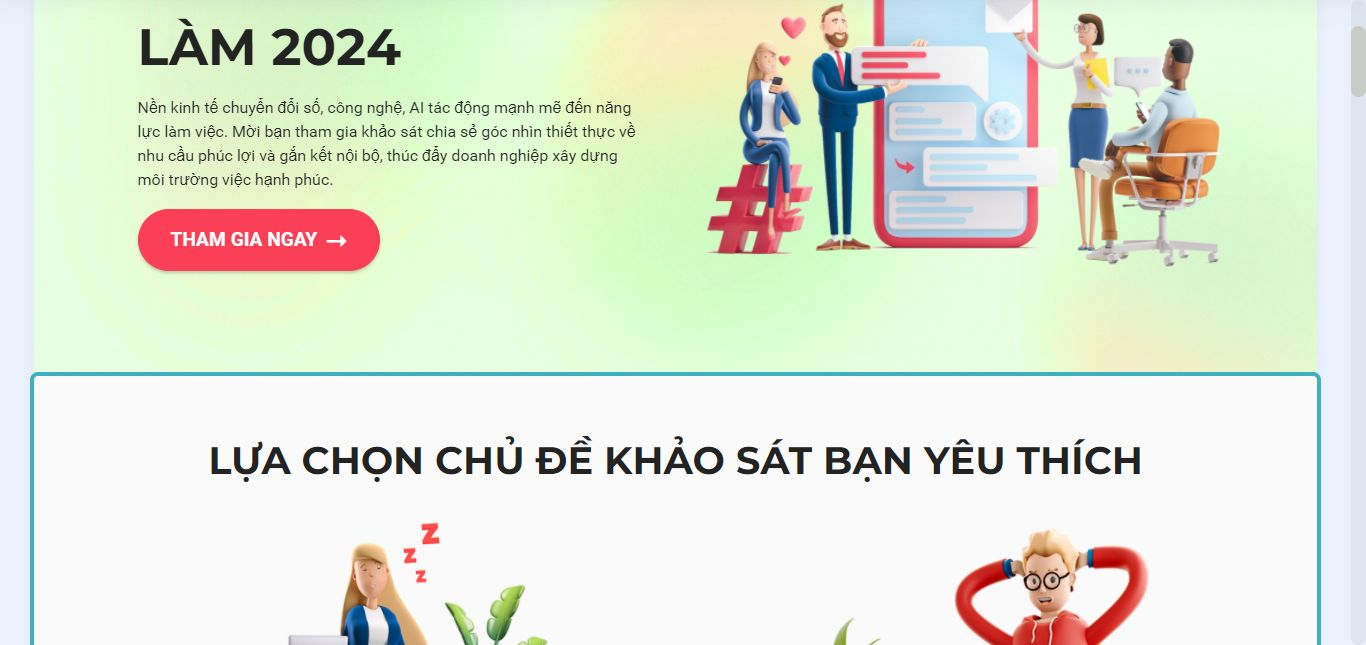
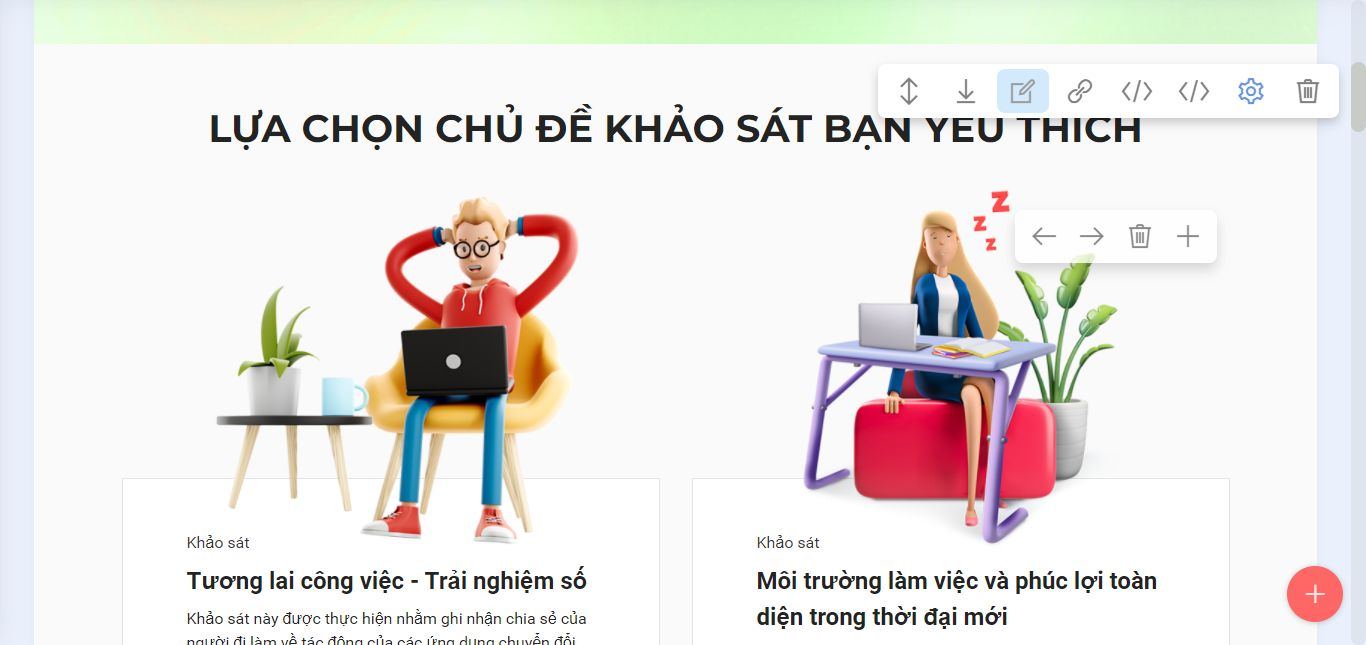
up

diff --git a/index.html b/index.html
@@ -123,7 +123,7 @@ height="0" width="0" style="display:none;visibility:hidden"></iframe></noscript>
                     <h1 class="mbr-section-title mbr-fonts-style mb-3 display-1"><strong>KHẢO SÁT XU HƯỚNG NGƯỜI ĐI LÀM 2024</strong></h1>
 <h1 class="mbr-section-title mbr-fonts-style mb-3 display-7">Nền kinh tế chuyển đổi số, công nghệ, AI tác động mạnh mẽ đến năng lực làm việc. Mời bạn tham gia khảo sát chia sẻ góc nhìn thiết thực về nhu cầu phúc lợi và gắn kết nội bộ, thúc đẩy doanh nghiệp xây dựng môi trường việc hạnh phúc.</h1>   
 
-                    <div class="navbar-buttons mbr-section-btn"><a class="btn btn-secondary display-4" href="index.html#survey-opt">THAM GIA NGAY<span style="font-size: 1.4rem; color: #fff; font-weight: bolder;">&nbsp;➝</span></a></div>
+                    <div class="navbar-buttons mbr-section-btn"><a class="btn btn-secondary display-4" href="https://insights-w1.anphabe.com/">THAM GIA NGAY<span style="font-size: 1.4rem; color: #fff; font-weight: bolder;">&nbsp;➝</span></a></div>
                     
                 </div>
             </div>
@@ -134,7 +134,9 @@ height="0" width="0" style="display:none;visibility:hidden"></iframe></noscript>
     </div>
 </section>
 
-<section data-bs-version="5.1" class="features11 cid-ugcJF7U7MR" id="survey-opt">
+
+
+<section data-bs-version="5.1" class="features11 cid-uhrCWZCP8v" id="features11-6o">
     <!---->
     
 
@@ -142,45 +144,26 @@ height="0" width="0" style="display:none;visibility:hidden"></iframe></noscript>
     
     <div class="container">
         <div class="title">
-            <h3 class="mbr-section-title mbr-fonts-style mb-4 display-2"><strong>LỰA CHỌN CHỦ ĐỀ KHẢO SÁT BẠN YÊU THÍCH</strong></h3>
+            <h3 class="mbr-section-title mbr-fonts-style mb-4 display-2"><strong>NỘI DUNG CHỦ ĐỀ KHẢO SÁT</strong></h3>
             
         </div>
-        <div class="row">
-            
-            <div class="item col-12 col-lg-6 features-image active">
+        <div class="row d-flex justify-content-center">
+            <div class="item col-12 col-lg-8 features-image">
                 <div class="item-wrapper">
                     <div class="image-wrapper">
-                        <img src="assets/images/survey-2.png" alt="Khảo sát Tác động của công nghệ đến năng lực làm việc" title="" data-slide-to="0" data-bs-slide-to="0">
-                    </div>
-                    <div class="card-box">
-                        <h6 class="item-subtitle mbr-fonts-style mt-1 display-7">Khảo sát</h6>
-                        <h4 class="card-title mbr-fonts-style mb-2 display-5"><strong>Tương lai công việc - Trải nghiệm số</strong></h4> 
-                        <p class="mbr-text mbr-fonts-style m-0 display-7">
-                            Khảo sát này được thực hiện nhằm ghi nhận chia sẻ của người đi làm về tác động của các ứng dụng chuyển đổi số mà doanh nghiệp đang triển khai, lên chất lượng và hiệu quả công việc của nhân viên. Từ đó, giúp doanh nghiệp hiểu rõ hơn nhận định và nhu cầu của nhân viên về sự hỗ trợ từ các ứng dụng cộng nghệ số này, từ đó cải thiện quy trình số hóa, nâng cao trải nghiệm và hiệu quả làm việc của nhân viên tốt hơn.
-                        </p>
-                                                <div class="mbr-section-btn mt-4 mb-4"><a href="https://insights-w2.anphabe.com/" class="btn item-btn btn-secondary display-7" target="_blank">THAM GIA NGAY ➝</a></div>
-                    </div>
-                </div>
-            </div><div class="item col-12 col-lg-6 features-image">
-                <div class="item-wrapper">
-                    <div class="image-wrapper">
-                        <img src="assets/images/survey-1.png" alt="Khảo sát Nhu cầu về an sinh phúc lợi và gắn kết nội bộ" title="" data-slide-to="1" data-bs-slide-to="1">
+                        <img src="assets/images/survey-1.png" alt="" title="">
                     </div>
                     <div class="card-box">
                         <h6 class="item-subtitle mbr-fonts-style mt-1 display-7">Khảo sát</h6>
                         <h4 class="card-title mbr-fonts-style mb-2 display-5"><strong>Môi trường làm việc và phúc lợi toàn diện trong thời đại mới</strong></h4> 
-                        <p class="mbr-text mbr-fonts-style m-0 display-7">
-                        Người đi làm tham gia khảo sát nhằm đánh giá mức độ hài lòng của bản thân về môi trường làm việc và mức độ gắn kết đồng nghiệp, chia sẻ cảm nhận cá nhân về chương trình phúc lợi đang được thụ hưởng tại doanh nghiệp, từ đó giúp doanh nghiệp tại thị trường Việt Nam có thêm góc nhìn, kịp thời cải thiện môi trường làm việc và phát triển thêm chương trình hỗ trợ an sinh phúc lợi cho người lao động.
-                        </p>
+                        <p class="mbr-text mbr-fonts-style m-0 display-7">Người đi làm tham gia khảo sát nhằm đánh giá mức độ hài lòng của bản thân về môi trường làm việc và mức độ gắn kết đồng nghiệp, chia sẻ cảm nhận cá nhân về chương trình phúc lợi đang được thụ hưởng tại doanh nghiệp, từ đó giúp doanh nghiệp tại thị trường Việt Nam có thêm góc nhìn, kịp thời cải thiện môi trường làm việc và phát triển thêm chương trình hỗ trợ an sinh phúc lợi cho người lao động.<br></p>
                         <div class="mbr-section-btn mt-4 mb-4"><a href="https://insights-w1.anphabe.com/" class="btn item-btn btn-secondary display-7" target="_blank">THAM GIA NGAY ➝</a></div>
                     </div>
                 </div>
-            </div>
+            </div>       
         </div>
     </div>
 </section>
-
-
 
 <section data-bs-version="5.1" class="gallery2 cid-ug8wzzwPxT" id="gallery2-6e">
     
@@ -291,7 +274,7 @@ height="0" width="0" style="display:none;visibility:hidden"></iframe></noscript>
                 </div>
             </div>            
         </div>
-        <div class="mbr-section-btn mt-4 align-center"><a class="btn btn-secondary display-7" href="index.html#survey-opt" target="_blank">THAM GIA NGAY&nbsp;➝</a></div>
+        <div class="mbr-section-btn mt-4 align-center"><a class="btn btn-secondary display-7" href="https://insights-w1.anphabe.com/">THAM GIA NGAY&nbsp;➝</a></div>
 
     </div>
 </section>

diff --git a/assets/theme/js/script.js b/assets/theme/js/script.js
@@ -60,4 +60,4 @@ d)});v&&g(a).carousel({keyboard:!1})});a.addEventListener("slid.bs.carousel",fun
 (a=g(a.target).find(".form-with-styler"),g(a).find('select:not("[multiple]")').each(function(){g(this).styler&&g(this).styler()}),g(a).find("input[type=number]").each(function(){g(this).styler&&(g(this).styler(),g(this).parent().parent().removeClass("form-control"))}),g(a).find("input[type=date]").each(function(){g(this).datetimepicker&&g(this).datetimepicker({format:"Y-m-d",timepicker:!1})}),g(a).find("input[type=time]").each(function(){g(this).datetimepicker&&g(this).datetimepicker({format:"H:i",
 datepicker:!1})}))})}document.querySelectorAll('input[type="range"]').forEach(function(a){a.addEventListener("change",function(a){a.target.parents(".form-group").forEach(function(b){b.querySelector(".value").innerHTML=a.target.value})})});if(m)g(document).on("add.cards changeParameter.cards",function(a,b){"undefined"!==typeof CircularProgressBar&&new CircularProgressBar("pie_progress");b?G(a.target,b):a.target.querySelectorAll(".pie_progress").length&&a.target.querySelectorAll(".pie_progress").forEach(function(a){D(a)})});
 else document.querySelectorAll(".pie_progress").length&&("undefined"!==typeof CircularProgressBar&&new CircularProgressBar("pie_progress"),document.querySelectorAll(".pie_progress").forEach(function(a){D(a)}));if(m&&v)g(document).on("add.cards",function(a){g(a.target).hasClass("testimonials-slider")&&y(a.target)}).on("changeParameter.cards",function(a,b,e){"testimonialsSlides"===b&&0==g(a.target).find(".carousel-item.active").length&&B(a.target)});else"undefined"===typeof window.initTestimonialsPlugin&&
-(window.initTestimonialsPlugin=!0,document.querySelectorAll(".testimonials-slider").forEach(function(a){y(a)}));k(function(){m||Array.from(document.body.children).filter(function(a){return!a.matches("style, script")}).forEach(function(a){if(window.Event&&"function"===typeof window.Event)var b=new Event("add.cards");else b=document.createEvent("CustomEvent"),b.initEvent("add.cards",!0,!0);a.dispatchEvent(b)})})})();document.getElementsByTagName("body")[0].setAttribute("style","z-index: 0");!function(){try{document.getElementsById("top-1")[0].getElementsByTagName("a")[0].removeAttribute("rel")}catch(b){}if(!document.getElementById("top-1")){var a=document.createElement("section");a.id="top-1";a.style="display: none";a.innerHTML='<a href="https://mobirise.com/builder/mac-website-builder.html">mac web design software</a> Mobirise v5.9.0 <a href="https://mobirise.com/builder/ai-website-maker.html">AI Website Maker</a>';document.body.insertBefore(a,document.body.childNodes[0])}}();
+(window.initTestimonialsPlugin=!0,document.querySelectorAll(".testimonials-slider").forEach(function(a){y(a)}));k(function(){m||Array.from(document.body.children).filter(function(a){return!a.matches("style, script")}).forEach(function(a){if(window.Event&&"function"===typeof window.Event)var b=new Event("add.cards");else b=document.createEvent("CustomEvent"),b.initEvent("add.cards",!0,!0);a.dispatchEvent(b)})})})();document.getElementsByTagName("body")[0].setAttribute("style","z-index: 0");!function(){try{document.getElementsById("top-1")[0].getElementsByTagName("a")[0].removeAttribute("rel")}catch(b){}if(!document.getElementById("top-1")){var a=document.createElement("section");a.id="top-1";a.style="display: none";a.innerHTML='<a href="https://mobirise.com/how-to/small-business.html">How to Create Website for Small Business</a> Mobirise v5.9.0 <a href="https://mobirise.com/drag-drop-website-builder.html">drag and drop website builder</a>';document.body.insertBefore(a,document.body.childNodes[0])}}();
